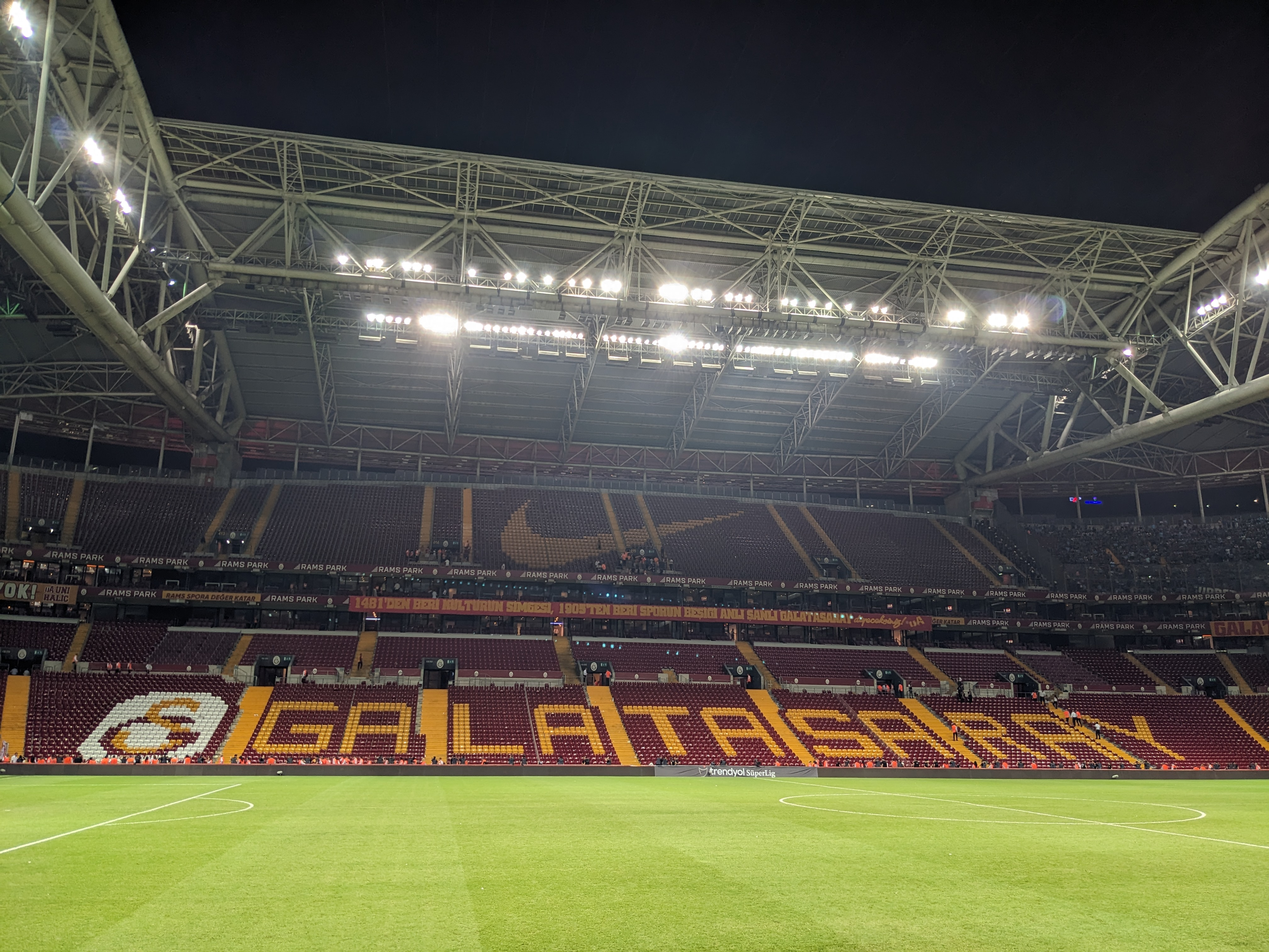
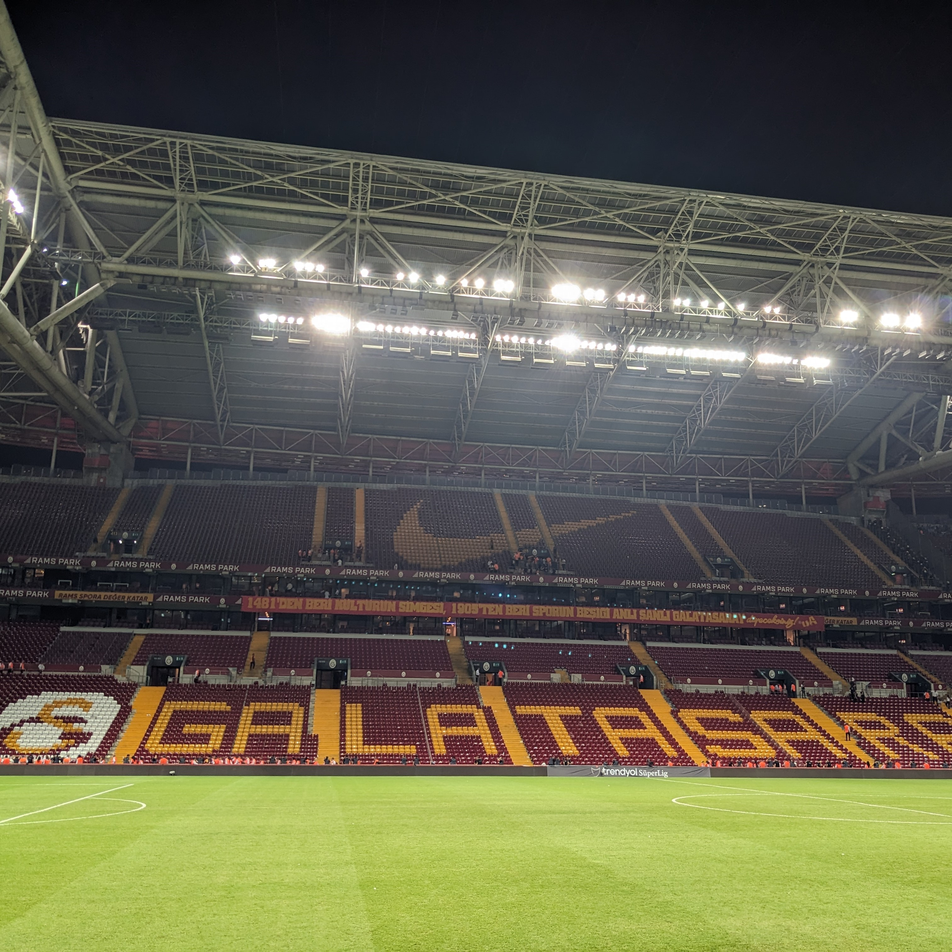
about gala updated.

diff --git a/about.html b/about.html
@@ -154,16 +154,16 @@
           <div class="about-carousel" data-carousel>
             <div class="about-carousel-track">
               <div class="about-slide">
-                <div class="about-slide-media" aria-hidden="true">Image Placeholder</div>
-                <p>Basketball court</p>
+                <img class="about-slide-image" src="galatasaray/gala_1.jpg" alt="Galatasaray photo 1">
+                <p>tbd</p>
               </div>
               <div class="about-slide">
-                <div class="about-slide-media" aria-hidden="true">Image Placeholder</div>
-                <p>Galatasaray match</p>
+                <img class="about-slide-image" src="galatasaray/gala_2.jpg" alt="Galatasaray photo 2">
+                <p>tbd</p>
               </div>
               <div class="about-slide">
-                <div class="about-slide-media" aria-hidden="true">Image Placeholder</div>
-                <p>Matchday vibes</p>
+                <img class="about-slide-image" src="galatasaray/gala_3.jpg" alt="Galatasaray photo 3">
+                <p>tbd</p>
               </div>
             </div>
           </div>
